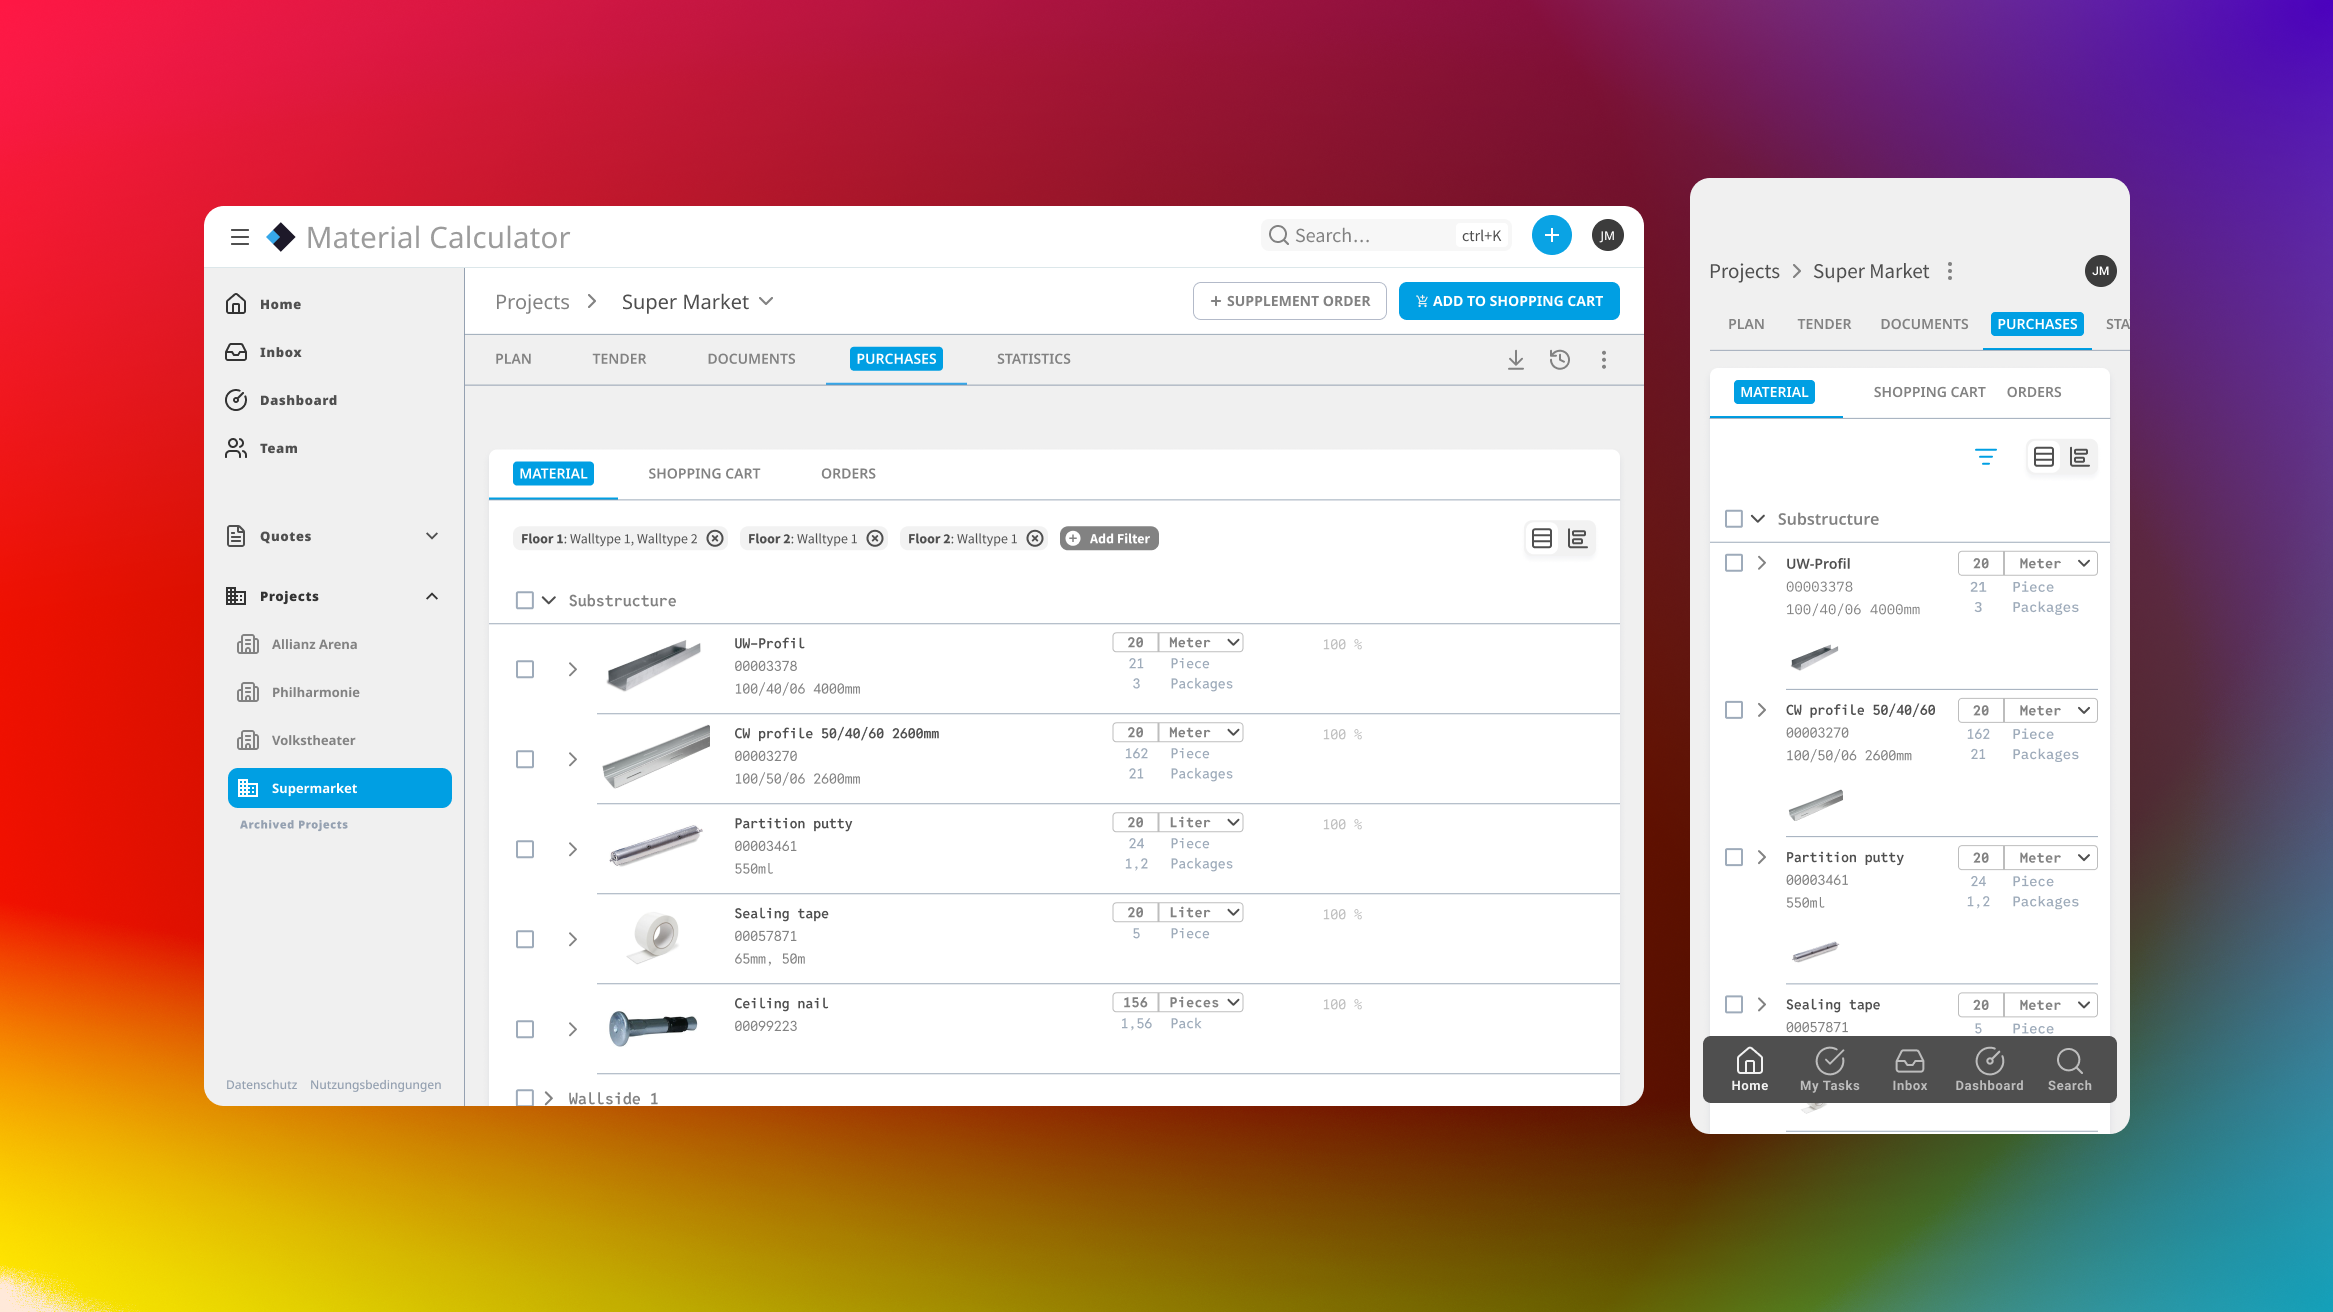
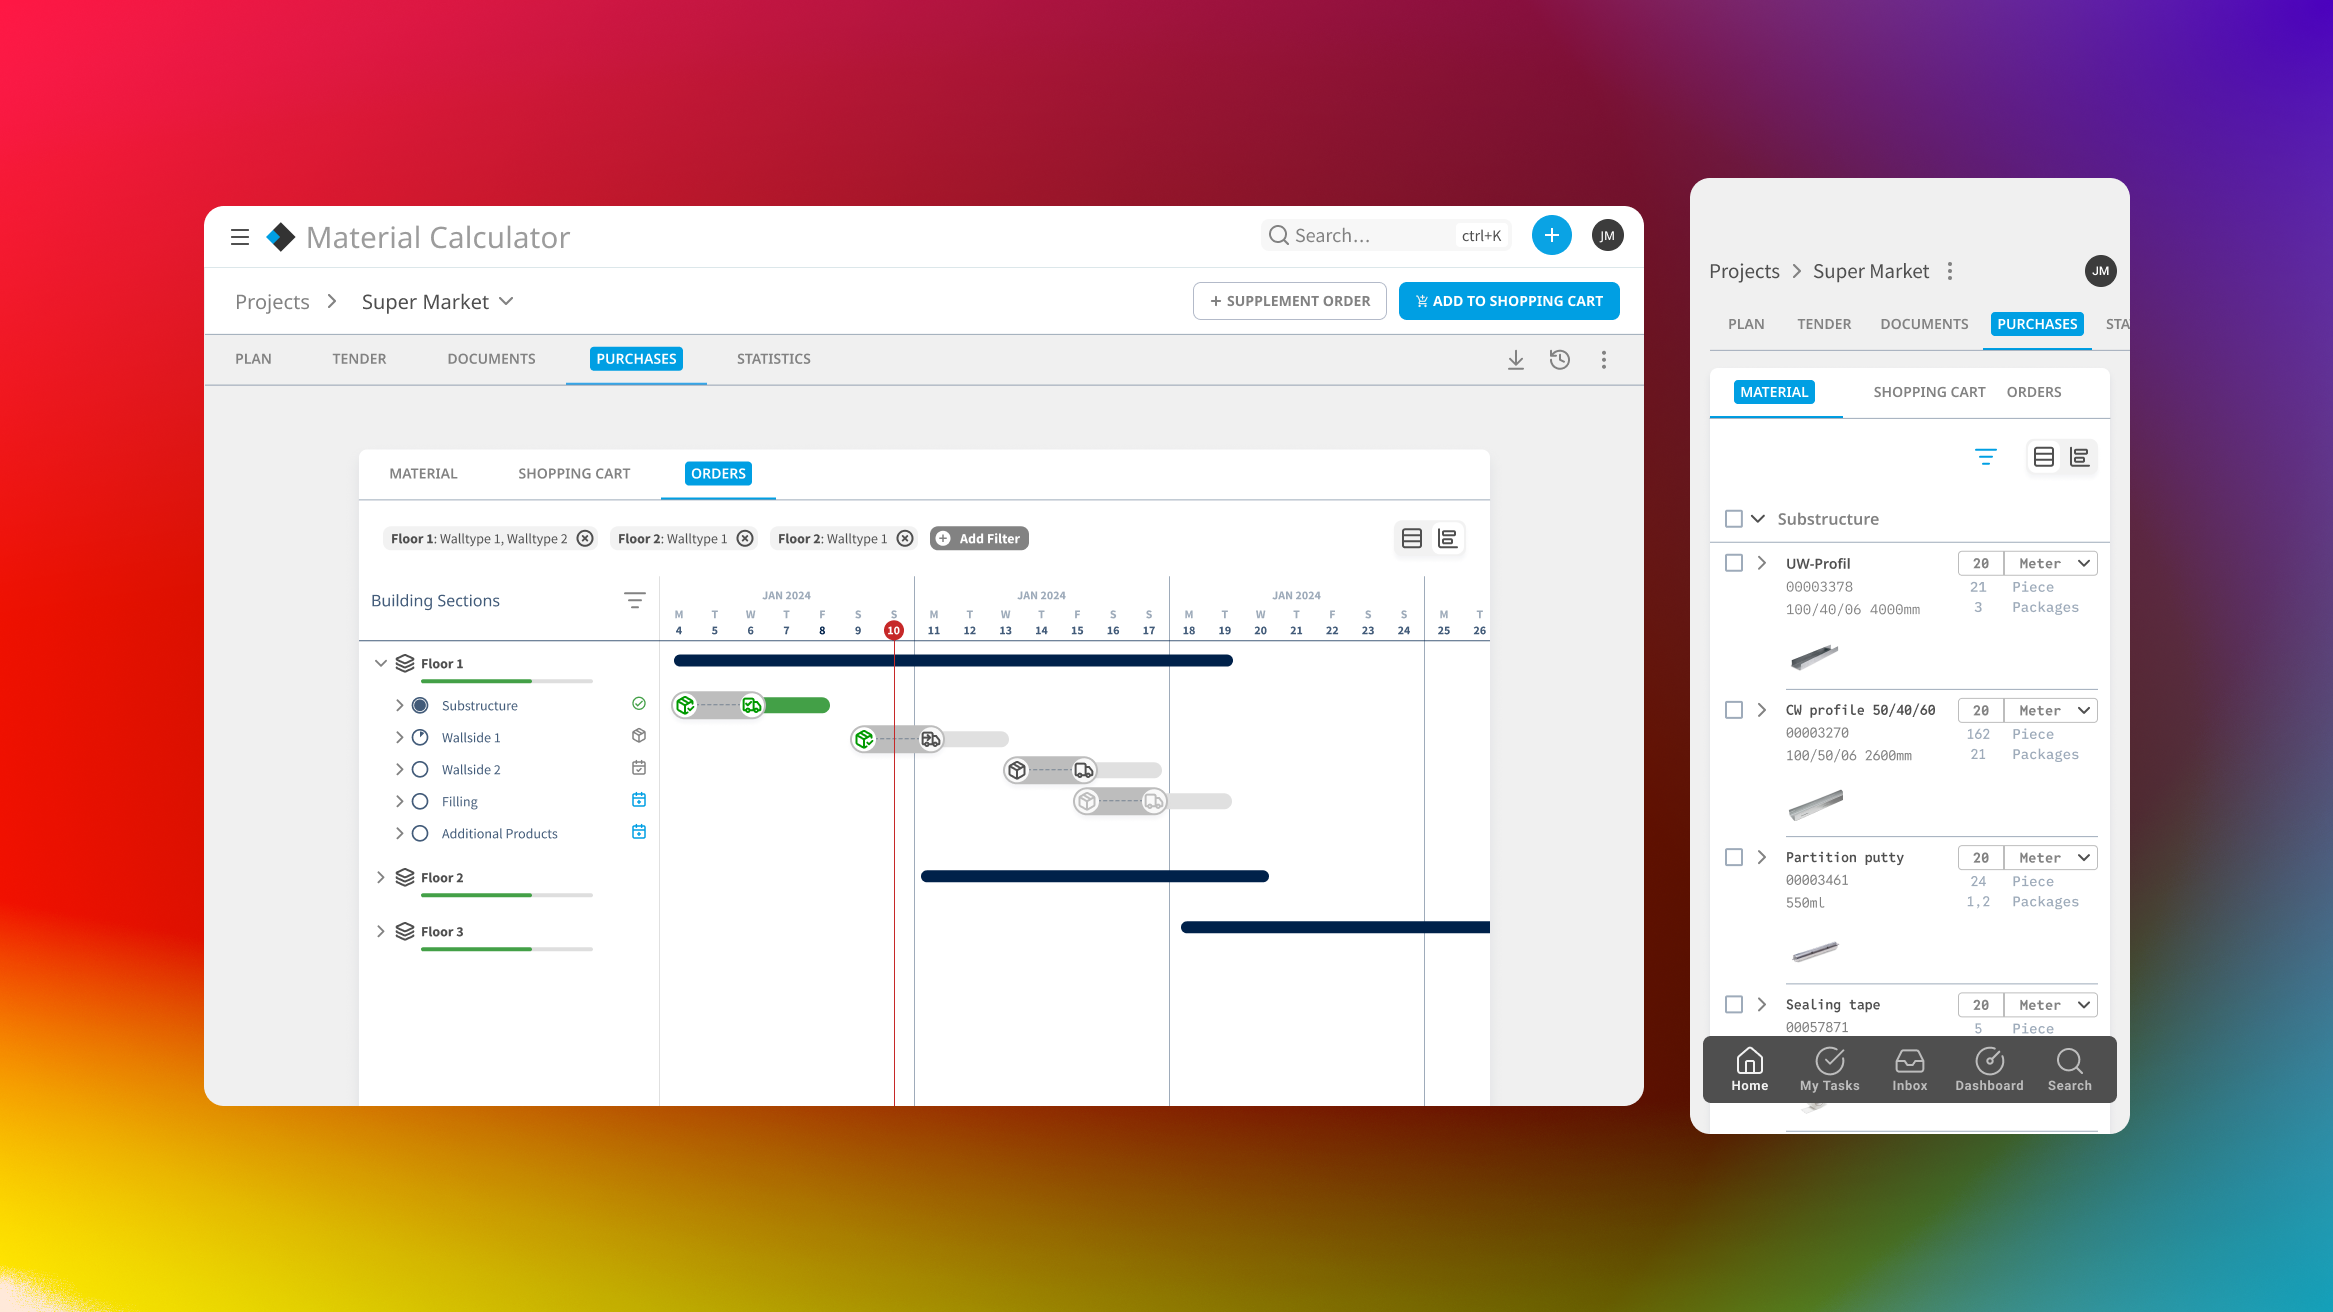
Enhance KnaufMaterialCalculatorPMF with additional CaseHighlight components to better showcase measurement and ordering features. Update content for clarity and improved user engagement, emphasizing real-time calculations and delivery scheduling.

diff --git a/src/components/Pages/Portfolio/KnaufMaterialCalculatorPMF.js b/src/components/Pages/Portfolio/KnaufMaterialCalculatorPMF.js
@@ -217,13 +217,20 @@ I built a guided import flow that parses items and matches them to Knauf’s pro
           imgURL="/img/portfolio/knauf-material-calculator/cover-plan-measurement.png"
           size="L"
         />
-        <CaseCopy copy="Applicators could now measure directly on their digital plans, and link results to tender positions." />
+        <CaseCopy copy="Applicators could now measure directly on their digital plans, and link results to tender positions. From site measurements → plan → exact quantities → approved order in minutes." />
         <CaseSubline subline="Highlights" />
-        <ul>
-          <li>Live measurement tools with snapping & layer toggles</li>
-          <li>Real-time quantity calculation per wall, floor, or phase</li>
-          <li>Immediate audit trail for every measurement</li>
-        </ul>
+        <CaseHighlight
+          headline="Plan Measurement tools"
+          copy="Users can plan mm-exact measurements and directly assign positions from the quote. Intuitive usage with immediate results."
+          imgURL="/img/portfolio/knauf-material-calculator/closeup-plan-measurement.png"
+          direction="LTR"
+        />
+        <CaseHighlight
+          headline="Real-time quantity calculation"
+          copy="By making mm-exact measurements on the plan, the quantities of the matching positions get calculated in real-time; per wall, floor, or phase"
+          imgURL="/img/portfolio/knauf-material-calculator/closeup-plan-calculations.png"
+          direction="RTL"
+        />
         <CaseSubline subline="Impact" />
         <ul>
           <li>3× faster take-offs</li>
@@ -242,11 +249,18 @@ I built a guided import flow that parses items and matches them to Knauf’s pro
 We introduced structured, flexible ordering, by floor, phase, or wall type; plus real-time delivery tracking."
         />
         <CaseSubline subline="Highlights" />
-        <ul>
-          <li>Split orders by date or project phase</li>
-          <li>Smart templates for recurring items</li>
-          <li>Built-in delivery scheduling</li>
-        </ul>
+        <CaseHighlight
+          headline="Split orders by date or project phase"
+          copy="Order material according to need. By floor, wall type, construction phase, element. Whatever the user needs."
+          imgURL="/img/portfolio/knauf-material-calculator/closeup-orders.png"
+          direction="LTR"
+        />
+        <CaseHighlight
+          headline="Built-in delivery scheduling"
+          copy="Tracking orders & deliveries on a construction is complex, messy, and time-sensitive. Our order tracking provides real-time status that can be filtered down to any phase, section, floor, wall-type, etc. to give users the ETA they need."
+          imgURL="/img/portfolio/knauf-material-calculator/closeup-order-scheduling.png"
+          direction="RTL"
+        />
         <CaseSubline subline="Impact" />
         <ul>
           <li>Order accuracy ↑</li>
